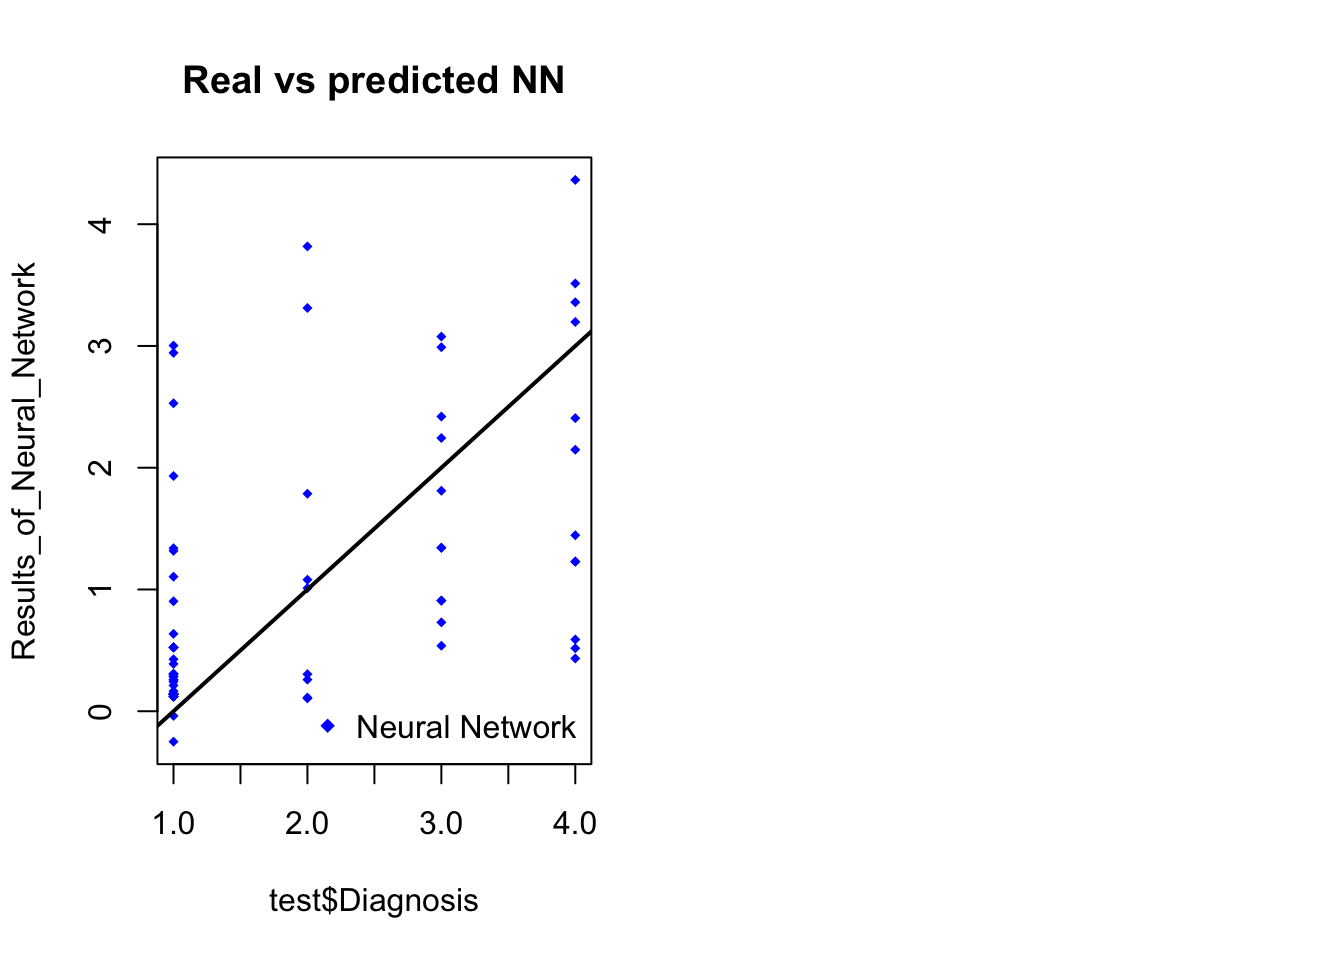
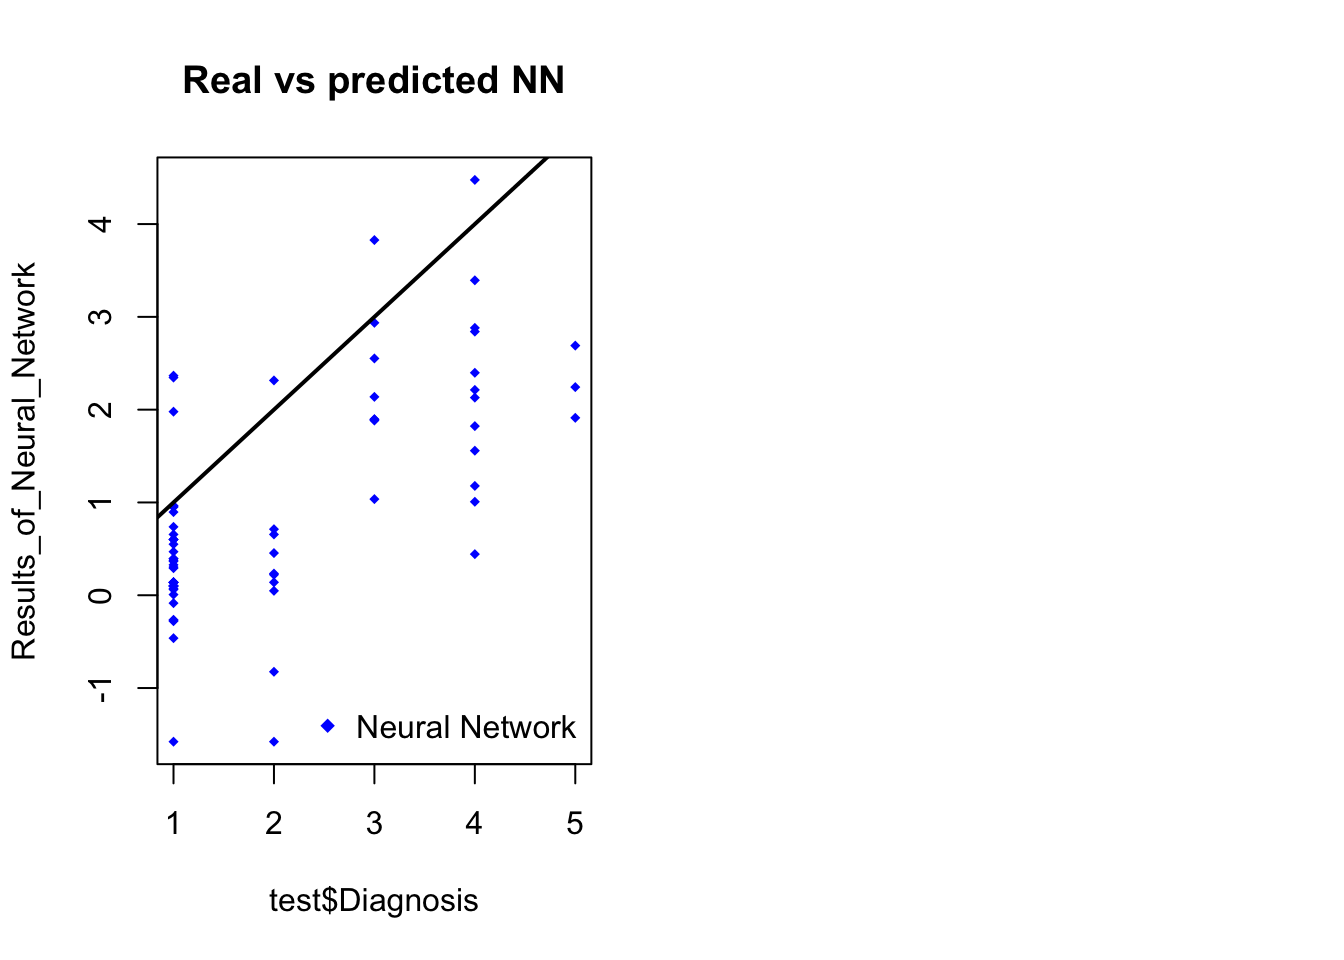
editing

diff --git a/content/post/Analysis_heart_conditions.html b/content/post/Analysis_heart_conditions.html
@@ -15,7 +15,7 @@ tags: []
 .</p>
 <p>Full disclosure… I have included the entire code (except for the part about the packages needed), so if you are a BA major, you may want to look away now; if not, you should find it helpful should you want to do something similar.<br />
 .</p>
-<p>The first thing I had to do was to find some usable data. I settled on a set of just over 300 diagnoses of heart conditions, along with 13 possible factors sucg as age, max heart rate achieved under exercise and an ecg reading. These were factors that I expected to be highly correlated with heart conditions, and so expected a good model. If you are curious, you can find the data <a href="https://archive.ics.uci.edu/ml/machine-learning-databases/heart-disease/processed.cleveland.data">here</a>. The data is all numeric, so the heart diseases are ranked on a scale from 0 to 4, where 0 is completely healthy and 4 is an impending heart-attack.</p>
+<p>The first thing I had to do was to find some usable data. I settled on a set of just over 300 diagnoses of heart conditions, along with 13 possible factors sucg as age, max heart rate achieved under exercise and an ecg reading. These were factors that I expected to be highly correlated with heart conditions, and so expected a good model. If you are curious, you can find the data <em><a href="https://archive.ics.uci.edu/ml/machine-learning-databases/heart-disease/processed.cleveland.data">here</a></em>. The data is all numeric, so the heart diseases are ranked on a scale from 0 to 4, where 0 is completely healthy and 4 is an impending heart-attack.</p>
 <p>.</p>
 <p>If you check out that link, you will see that it just leads to a bunch of numbers on a screen. I therefore had to scrape the website and then format the data (a decent amount of work given my relative inexperience in the field), which was done with the code below. Of course, before doing even that, we have to import the necessary libraries, which are</p>
 <p>.</p>
@@ -109,12 +109,12 @@ data.rpart</code></pre>
 ## Resampling results across tuning parameters:
 ## 
 ##   cp          Accuracy   Kappa    
-##   0.02912621  0.5410244  0.2403078
-##   0.03398058  0.5367336  0.2217788
-##   0.04854369  0.5349352  0.2182208
+##   0.03669725  0.5267398  0.2207780
+##   0.04587156  0.5215077  0.2127531
+##   0.05963303  0.5171869  0.2123543
 ## 
 ## Accuracy was used to select the optimal model using  the largest value.
-## The final value used for the model was cp = 0.02912621.</code></pre>
+## The final value used for the model was cp = 0.03669725.</code></pre>
 <pre class="r"><code># We can look at the decision tree here
 data.rpart$finalModel</code></pre>
 <pre><code>## n= 223 
@@ -122,55 +122,53 @@ data.rpart$finalModel</code></pre>
 ## node), split, n, loss, yval, (yprob)
 ##       * denotes terminal node
 ## 
-##  1) root 223 103 0  (0.54 0.2 0.11 0.12 0.04)  
-##    2) Thal3.0&gt;=0.5 121  27 0  (0.78 0.15 0.033 0.033 0.0083) *
-##    3) Thal3.0&lt; 0.5 102  76 0  (0.25 0.25 0.2 0.22 0.078)  
-##      6) Chest_Pain4.0&lt; 0.5 35  17 0  (0.51 0.23 0.086 0.11 0.057) *
-##      7) Chest_Pain4.0&gt;=0.5 67  49 1  (0.12 0.27 0.25 0.27 0.09)  
-##       14) eia1.0&gt;=0.5 44  29 3  (0.068 0.32 0.25 0.34 0.023) *
-##       15) eia1.0&lt; 0.5 23  17 2  (0.22 0.17 0.26 0.13 0.22)  
-##         30) Fluoroscopy_stain0.0&gt;=0.5 7   3 0  (0.57 0.29 0 0 0.14) *
-##         31) Fluoroscopy_stain0.0&lt; 0.5 16  10 2  (0.062 0.12 0.38 0.19 0.25) *</code></pre>
+##  1) root 223 109 0  (0.51 0.21 0.12 0.12 0.045)  
+##    2) Thal3.0&gt;=0.5 121  30 0  (0.75 0.16 0.05 0.033 0.0083) *
+##    3) Thal3.0&lt; 0.5 102  74 1  (0.23 0.27 0.2 0.22 0.088)  
+##      6) Fluoroscopy_stain0.0&gt;=0.5 45  26 0  (0.42 0.31 0.067 0.13 0.067) *
+##      7) Fluoroscopy_stain0.0&lt; 0.5 57  40 2  (0.07 0.25 0.3 0.28 0.11)  
+##       14) Fluoroscopy_stain1.0&gt;=0.5 26  16 1  (0.077 0.38 0.31 0.15 0.077) *
+##       15) Fluoroscopy_stain1.0&lt; 0.5 31  19 3  (0.065 0.13 0.29 0.39 0.13) *</code></pre>
 <pre class="r"><code>#--------------------------Testing the rpart model and looking at output---------------------------------
 
 predict(data.rpart, test)</code></pre>
-<pre><code>##  [1] 0  0  0  3  0  0  3  0  0  2  0  0  0  3  0  0  0  3  0  2  0  3  0 
-## [24] 0  0  0  0  0  3  0  0  0  3  0  0  0  0  3  0  0  3  0  2  0  3  0 
-## [47] 0  3  0  0  0  0  0  0  0  0  0  0  0  0  2  0  0  0  0  0  0  0  3 
-## [70] 0  0  0  2  3 
+<pre><code>##  [1] 3  0  0  0  1  0  0  0  0  0  3  0  0  0  0  0  0  1  0  0  0  0  0 
+## [24] 3  1  0  0  0  0  3  1  0  1  0  1  0  0  0  3  0  0  0  0  0  1  0 
+## [47] 0  0  0  0  0  3  1  0  0  0  0  0  0  0  0  0  0  1  3  0  0  0  0 
+## [70] 1  0  0  0  0 
 ## Levels: 0  1  2  3  4</code></pre>
 <pre class="r"><code>confusionMatrix(predict(data.rpart, test), test$Diagnosis)</code></pre>
 <pre><code>## Confusion Matrix and Statistics
 ## 
 ##           Reference
 ## Prediction 0  1  2  3  4 
-##         0  39  6  5  5  1
-##         1   0  0  0  0  0
-##         2   0  1  1  2  1
-##         3   1  3  5  2  2
+##         0  44  4  4  4  1
+##         1   2  2  4  2  0
+##         2   0  0  0  0  0
+##         3   0  1  1  3  2
 ##         4   0  0  0  0  0
 ## 
 ## Overall Statistics
 ##                                           
-##                Accuracy : 0.5676          
-##                  95% CI : (0.4472, 0.6823)
-##     No Information Rate : 0.5405          
-##     P-Value [Acc &gt; NIR] : 0.3644          
+##                Accuracy : 0.6622          
+##                  95% CI : (0.5428, 0.7681)
+##     No Information Rate : 0.6216          
+##     P-Value [Acc &gt; NIR] : 0.2768          
 ##                                           
-##                   Kappa : 0.2272          
+##                   Kappa : 0.3201          
 ##  Mcnemar&#39;s Test P-Value : NA              
 ## 
 ## Statistics by Class:
 ## 
 ##                      Class: 0  Class: 1  Class: 2  Class: 3  Class: 4 
-## Sensitivity             0.9750    0.0000   0.09091   0.22222   0.00000
-## Specificity             0.5000    1.0000   0.93651   0.83077   1.00000
-## Pos Pred Value          0.6964       NaN   0.20000   0.15385       NaN
-## Neg Pred Value          0.9444    0.8649   0.85507   0.88525   0.94595
-## Prevalence              0.5405    0.1351   0.14865   0.12162   0.05405
-## Detection Rate          0.5270    0.0000   0.01351   0.02703   0.00000
-## Detection Prevalence    0.7568    0.0000   0.06757   0.17568   0.00000
-## Balanced Accuracy       0.7375    0.5000   0.51371   0.52650   0.50000</code></pre>
+## Sensitivity             0.9565   0.28571    0.0000   0.33333   0.00000
+## Specificity             0.5357   0.88060    1.0000   0.93846   1.00000
+## Pos Pred Value          0.7719   0.20000       NaN   0.42857       NaN
+## Neg Pred Value          0.8824   0.92188    0.8784   0.91045   0.95946
+## Prevalence              0.6216   0.09459    0.1216   0.12162   0.04054
+## Detection Rate          0.5946   0.02703    0.0000   0.04054   0.00000
+## Detection Prevalence    0.7703   0.13514    0.0000   0.09459   0.00000
+## Balanced Accuracy       0.7461   0.58316    0.5000   0.63590   0.50000</code></pre>
 <p>.</p>
 <p>Looking at the output of the code, we see that we have 223 samples for the training set, with 13 predictors and 5 classes. This all sounds good. One interesting aspect of the rpart model is that it is able to give us different complexity parameters and their subsequent accuracy is used in the model. The complexity parameter is effectively a measurement of how deep your decision tree is. If this doesn’t make sense, I suggest doing some background reading on it. We see which complexity parameter gives us the highest level of accuracy, which can be seen to be worryingly low here. Not to worry however, as we haven’t tested the model yet. We can also have a look at the decision tree if we wish to.</p>
 <p>.</p>
@@ -197,32 +195,32 @@ summary(logistic)</code></pre>
 ## 
 ## Deviance Residuals: 
 ##      Min        1Q    Median        3Q       Max  
-## -1.81736  -0.54481  -0.05036   0.29706   2.64266  
+## -2.14617  -0.49632  -0.09834   0.28568   2.80767  
 ## 
 ## Coefficients:
 ##                             Estimate Std. Error t value Pr(&gt;|t|)    
-## (Intercept)               -1.9616350  0.4756003  -4.125 5.36e-05 ***
-## Age                       -0.0076087  0.0074368  -1.023 0.307435    
-## Sex                        0.2131054  0.1352920   1.575 0.116734    
-## Chest_Pain                 0.1900993  0.0658087   2.889 0.004276 ** 
-## Blood_Pressure             0.0041637  0.0055882   0.745 0.457052    
-## Cholestoral                0.0001467  0.0015707   0.093 0.925674    
-## Blood_Sugar               -0.0728219  0.1850847  -0.393 0.694387    
-## ecg                        0.0619969  0.0592302   1.047 0.296442    
-## Max_Heart_Rate            -0.0023516  0.0032383  -0.726 0.468535    
-## eia                        0.2266377  0.1433026   1.582 0.115269    
-## Exercise_induced_feelings  0.0222895  0.0071900   3.100 0.002201 ** 
-## Slope_of_ST                0.2772669  0.1155922   2.399 0.017334 *  
-## Fluoroscopy_stain          0.5336732  0.0719103   7.421 2.88e-12 ***
-## Thal                       0.2506827  0.0717593   3.493 0.000582 ***
+## (Intercept)               -1.7291298  0.4929731  -3.508 0.000554 ***
+## Age                       -0.0113364  0.0074008  -1.532 0.127085    
+## Sex                        0.1521410  0.1330508   1.143 0.254147    
+## Chest_Pain                 0.1827598  0.0702621   2.601 0.009956 ** 
+## Blood_Pressure             0.0032874  0.0055633   0.591 0.555218    
+## Cholestoral                0.0001243  0.0015599   0.080 0.936540    
+## Blood_Sugar                0.0981886  0.1655159   0.593 0.553670    
+## ecg                        0.0666642  0.0598035   1.115 0.266250    
+## Max_Heart_Rate            -0.0040355  0.0032895  -1.227 0.221286    
+## eia                        0.2141855  0.1381934   1.550 0.122679    
+## Exercise_induced_feelings  0.0203465  0.0074881   2.717 0.007136 ** 
+## Slope_of_ST                0.1682030  0.1177772   1.428 0.154743    
+## Fluoroscopy_stain          0.5159553  0.0685620   7.525 1.54e-12 ***
+## Thal                       0.2655519  0.0703287   3.776 0.000208 ***
 ## ---
 ## Signif. codes:  0 &#39;***&#39; 0.001 &#39;**&#39; 0.01 &#39;*&#39; 0.05 &#39;.&#39; 0.1 &#39; &#39; 1
 ## 
-## (Dispersion parameter for gaussian family taken to be 0.7033118)
+## (Dispersion parameter for gaussian family taken to be 0.6910157)
 ## 
-##     Null deviance: 350.64  on 222  degrees of freedom
-## Residual deviance: 146.99  on 209  degrees of freedom
-## AIC: 569.9
+##     Null deviance: 326.85  on 222  degrees of freedom
+## Residual deviance: 144.42  on 209  degrees of freedom
+## AIC: 565.97
 ## 
 ## Number of Fisher Scoring iterations: 2</code></pre>
 <pre class="r"><code>plot(logistic)</code></pre>
@@ -230,7 +228,7 @@ summary(logistic)</code></pre>
 <p>.</p>
 <p>The first thing that we see when we examine the summary is that not all of our factors are important. We can see it in two ways. The technical way is to see which factor has a small (on the order of 10^(-3)) p factor. The slightly easier way is to look at the stars next to the factors… *** means important, means not. I was happy to see that 8 of our factors seem to have little or no bearing on the model, and so we can take them out.</p>
 <p>.</p>
-<p>I was less happy with the plots. As you can see, the model struggled to successfully model the data points. I was not discouraged however, as I had one more trick up my sleeve… the Neural Network. The Neural Network is a more advanced model that is based upon the human brain. It uses things artificial neurons that act like real neurons to create models that are exceptionally good at tasks that other models are traditionally not good at, like identifying hand-writing. I won’t go into how the model works, but if you are interested, you can read up on it <a href="https://en.wikipedia.org/wiki/Artificial_neural_network">here</a>.</p>
+<p>I was less happy with the plots. As you can see, the model struggled to successfully model the data points. I was not discouraged however, as I had one more trick up my sleeve… the Neural Network. The Neural Network is a more advanced model that is based upon the human brain. It uses things artificial neurons that act like real neurons to create models that are exceptionally good at tasks that other models are traditionally not good at, like identifying hand-writing. I won’t go into how the model works, but if you are interested, you can read up on it <em><a href="https://en.wikipedia.org/wiki/Artificial_neural_network">here</a>.</em></p>
 <p>.</p>
 <p>We begin the model by taking the data that we discovered we didn’t need using the GLM model. We then have to normalize the data. This is a particular quirk of the neural network, as if it is not done, it may lead to meaninless or incorrect results. There are different methods of normalization (z-normalization, min-max etc. ), though I went with the use the min-max method and a scale in the interval [0, 1]. We once again split our data and rthen train the model. I have included an image of what the Neural Network looks like if you are curious. As before, we then test our model against our testing data and then have a look at the results.</p>
 <p>.</p>
@@ -261,7 +259,7 @@ names &lt;- names(train.scaled)
 names.all &lt;- as.formula(paste(&quot;Diagnosis ~&quot;, paste(names[!names %in% &quot;Diagnosis&quot;], collapse = &quot; + &quot;)))
 nn &lt;- neuralnet(names.all,data=train.scaled,hidden=c(5,3),linear.output=T)
 plot(nn)</code></pre>
-<p>!(neural_networks.png)</p>
+<p>!(neural_network.png)</p>
 <pre class="r"><code># We compute our test data with the model  
 pr.nn &lt;- compute(nn,test.scaled[ ,1:5])      
 
@@ -274,11 +272,18 @@ test.r &lt;- (test.scaled$Diagnosis)*(max(data$Diagnosis)-min(data$Diagnosis))+m
 Results_of_Neural_Network &lt;- pr.nn_
 MSE.nn &lt;- sum((test.r - pr.nn_)^2)/nrow(test.scaled)
 print(MSE.nn)</code></pre>
-<pre><code>## [1] 1.241954591</code></pre>
+<pre><code>## [1] 1.040044138</code></pre>
 <pre class="r"><code># We now plot our results
 par(mfrow=c(1,2))
 plot(test$Diagnosis,Results_of_Neural_Network, col=&#39;blue&#39;,main=&#39;Real vs predicted NN&#39;,pch=18,cex=0.7)
-abline(-1,1,lwd=2)
+abline(0,1,lwd=2)
 legend(&#39;bottomright&#39;,legend=&#39;Neural Network&#39;,pch=18,col=&#39;blue&#39;, bty=&#39;n&#39;)</code></pre>
 <p><img src="/post/Analysis_heart_conditions_files/figure-html/unnamed-chunk-6-1.png" width="672" /></p>
 <p>.</p>
+<p>The results, as you can see, were not good. The first indicator of this was the Means Squared Error (MSE). The MSE is defined as “the mean squared error (MSE) or mean squared deviation (MSD) of an estimator (of a procedure for estimating an unobserved quantity) measures the average of the squares of the errors or deviations—that is, the difference between the estimator and what is estimated.” In simpler terms, its an average measure of how far wrong each point was from its predicted value. Our MSE is approxiamtely 30% of our total range. In addition to this, the plot is wildly different to what an accurate plot would look like. As the Diagnosis values are discrete, we obviously expect the X values to be 0, 1, 2, 3 or 4, which is what we see. The difference is in the Y values. If the model was accurate, we would see small bundles of points around the co-ordinates (0,0), (1,1), (2,2), (3,3) and (4,4), which would all lie in the straight line y = x. Our actual output shows the Y values to be scattered all over the place, regardless of the X value. Though there is a slight tendency for the Y values to increase as the X ones do, indicating a correaltion, it is extremely slight and definitely not significant enough for us to accept this as an acceptable model.</p>
+<p>.</p>
+<p>Despite, or maybe because, all three of my models completely failed to model my dataset, I still feel that I learnt an invaluable lesson. It is that some data sets are simply too tough to fit using the fairly simplistic methods used in this blog post. The real world is complicated and there are clearly a lot more underlying factors and interconnectedness going on in this data set than I had naively assumed at the start of the project. That, or I just picked a really shit data set… who knows?? These sorts of things are as much art as they are science and sometimes art requires a couple of attempts before it becomes something beautiful.</p>
+<p>.</p>
+<p>And so, I wasn’t able to solve the “Google your symptoms” problem in one afternoon. Doctors 1, Data-Scientists 0. However, I do think that with a better data set and possibly a slightly different method, it would be possible to get pretty close. That however is a project for another blog post, as I am signing off this one.</p>
+<p>.</p>
+<p>Till next time, you stay classy San Diego.</p>

diff --git a/content/post/2015-01-01-lorem-ipsum.md b/content/post/2015-01-01-lorem-ipsum.md
@@ -1,6 +1,6 @@
 ---
-title: "Lorem Ipsum"
+title: The Blog
 date: 2015-01-01T13:09:13-06:00
 ---
 
-**Lorem ipsum** dolor sit amet, consectetur adipiscing elit, sed do eiusmod tempor incididunt ut labore et dolore _magna aliqua_. Ut enim ad minim veniam, quis nostrud exercitation ullamco laboris nisi ut aliquip ex ea commodo consequat. Duis aute irure dolor in reprehenderit in voluptate velit esse cillum dolore eu fugiat nulla pariatur. Excepteur sint occaecat cupidatat non proident, sunt in culpa qui officia deserunt mollit anim id est laborum.
+This is my IX blog, filled with some cool and interesting work. It's also run by a pretty cool guy, so it's pretty lit. 
